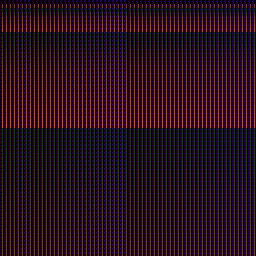
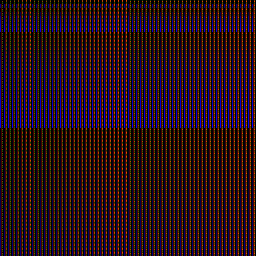
made ray class

diff --git a/src/main.cpp b/src/main.cpp
@@ -6,21 +6,25 @@
 int main() {
 
     // Image
-    int image_width = 256;
-    int image_height = 256;
+    const int image_width = 256;
+    const int image_height = 256;
 
-    color data[image_width][image_height];
+    glm::vec3 data[image_width][image_height];
 
     // Render
     std::cout << "P3\n" << image_width << ' ' << image_height << "\n255\n";
 
     for (int j = 0; j < image_height; j++) {
+        std::clog << "\rScanlines remaining: " << (image_height - j) << '\n' << std::flush;
         for (int i = 0; i < image_width; i++) {
             auto pixel_color = color(double(i) / (image_width - 1), double(j) / (image_height - 1), 0);
             
-            data[j][i] = write_color(std::cout, pixel_color);
+            data[i][j] = write_color(std::cout, pixel_color);
         }
     }
 
     stbi_write_jpg("../image.jpg", image_width, image_height, 3, data, 100);
+
+    std::clog << "\rDone.\n";       
+    return 0;
 }

diff --git a/src/ray.hpp b/src/ray.hpp
@@ -1,0 +1,20 @@
+#pragma once
+#include <glm/glm.hpp>
+
+class ray {
+public:
+    ray() {}
+
+    ray(const glm::vec3 origin, const glm::vec3& direction) : orig(origin), dir(direction) {}
+
+    auto origin() -> glm::vec3 const { return orig; }
+    auto direction() -> glm::vec3 const { return dir; }
+
+    auto at(float t) const -> glm::vec3 {
+        return orig + t*dir;
+    }
+
+private:
+    glm::vec3 orig;
+    glm::vec3 dir;
+};
